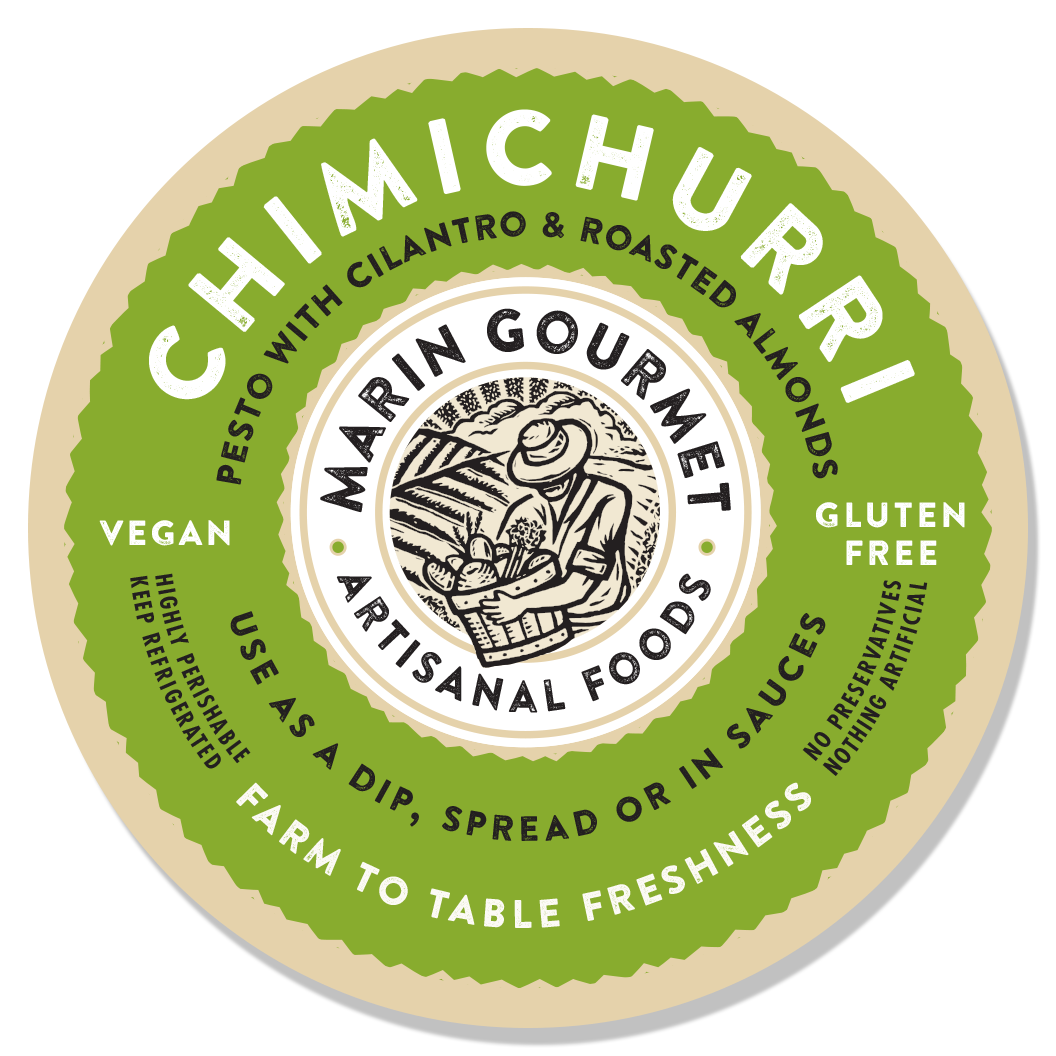
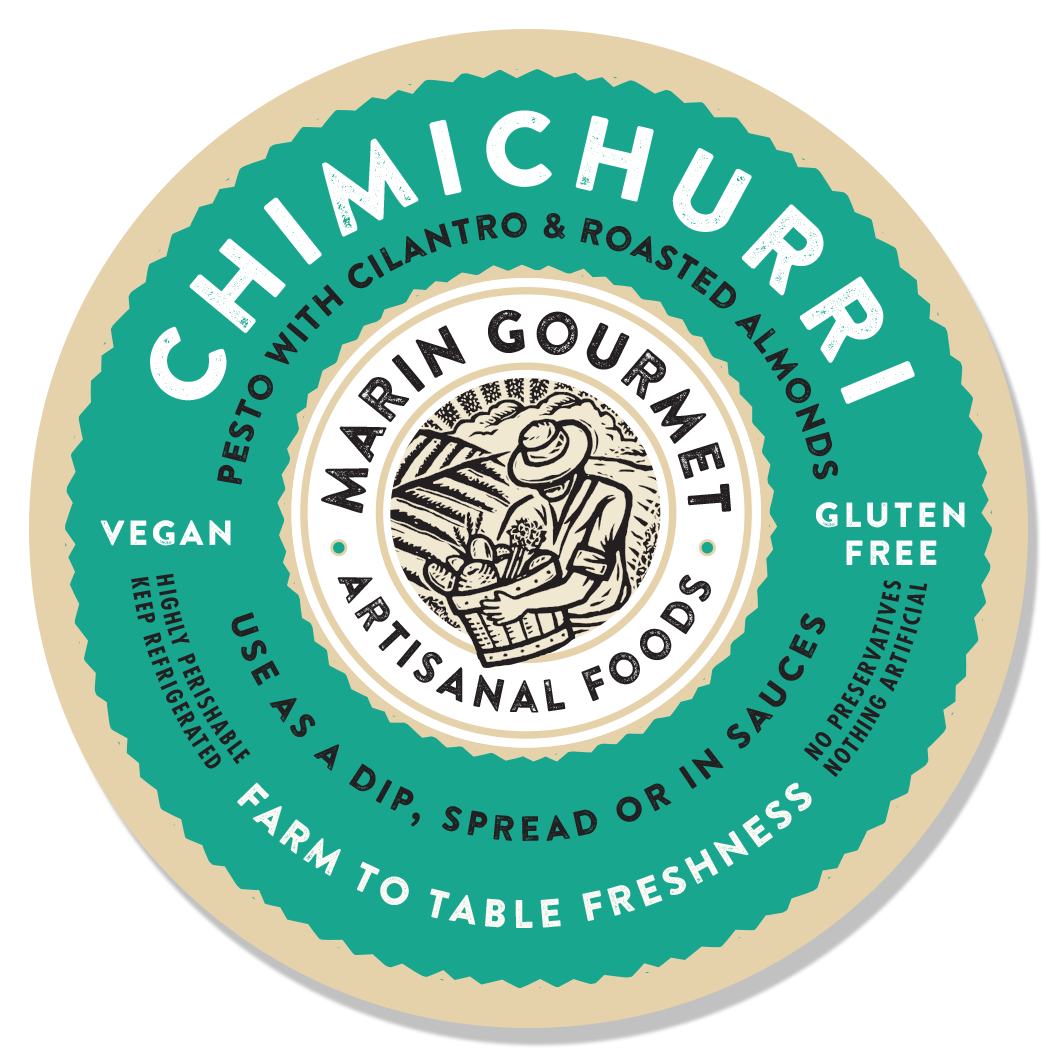
Update chimi

diff --git a/css/creative.css b/css/creative.css
@@ -666,7 +666,7 @@ footer {
   background-color: #C7A92F;
 }
 .btn-chimi {
-  background-color: #88AC2E;
+  background-color: #18A68F;
 }
 .btn-lemon {
   background-color: #FFCB08;
@@ -687,7 +687,7 @@ footer {
   background-color: #a78910;
 }
 .btn-chimi:hover {
-  background-color: #698c12;
+  background-color: #0e9680;
 }
 .btn-lemon:hover {
   background-color: #deb004;
